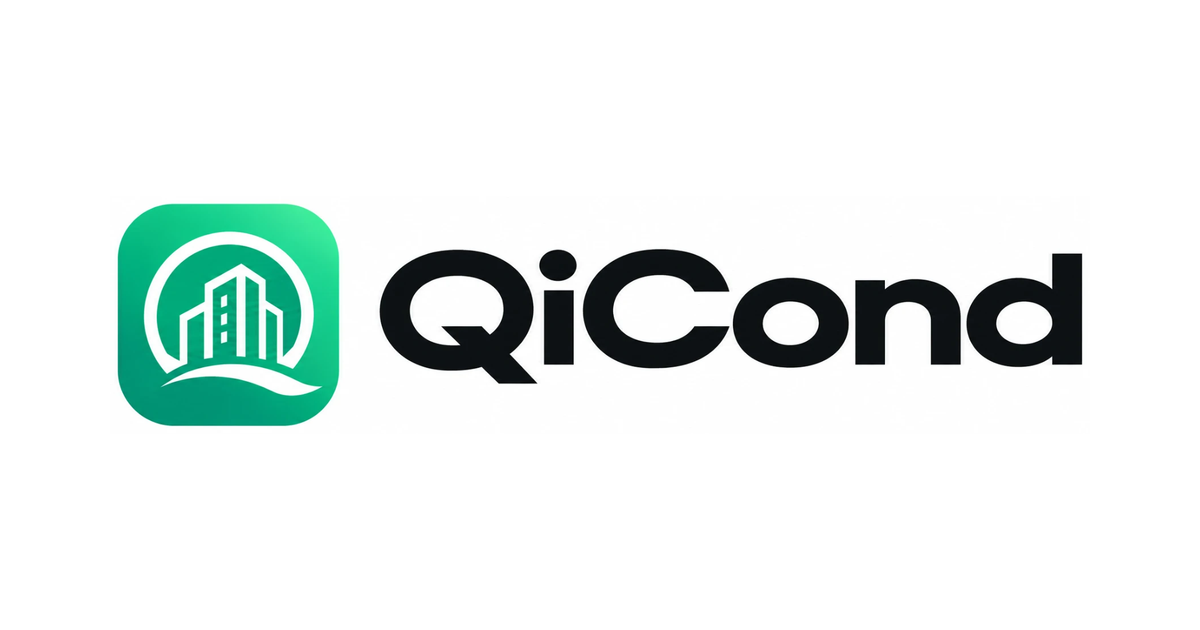
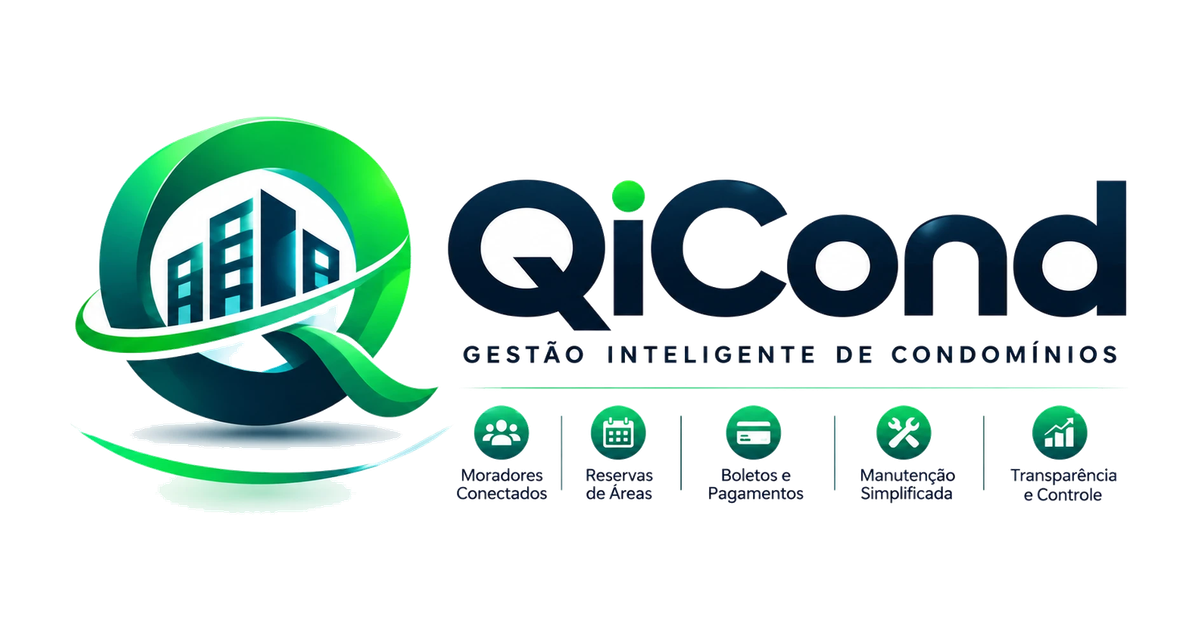
Logótipo composto nos ecrãs de entrada e na imagem de partilha
MEDIDO, NÃO ADIVINHADO

A assinatura "gestão inteligente de condomínios" tem 20px de altura num
ficheiro de 900px. A 280px de largura as maiúsculas ficam com 6,2px e viram
uma mancha; a 400px ficam com 8,9px e lêem-se. Daí o tecto de 400px, e a
troca pelo símbolo com o nome ao lado abaixo de `sm:`, onde não cabem 400px.

Renderizei o ecrã de entrada em três larguras e olhei: aos 1360 e aos 760 a
assinatura lê-se; aos 380 entra a versão pequena.

ONDE ENTRA

Login, cadastro, recuperar senha e nova senha — do lado do formulário, que é
onde o fundo é claro e o azul-escuro do nome se lê. A coluna passou de 384
para 448px para o logótipo caber sem encolher.

A imagem de partilha passa a ser a versão completa, com os cinco pilares. É o
único sítio com 1200px de largura a sério, e é onde a informação extra
trabalha: quem vê o cartão no WhatsApp não sabe o que o sistema é.

ONDE NÃO ENTRA, E PORQUÊ

Na barra lateral e no cabeçalho da aplicação fica o símbolo quadrado. A 36px
não se lê nada da assinatura, e um logótipo que não se lê é ruído.

Nos documentos impressos — carta de cobrança, nada consta, balancete — não
entra nenhum. Pensei o contrário e estava errado: esses papéis são do
condomínio e vão para o tabelião, para o condómino, para o tribunal. O
cabeçalho é do condomínio, não de quem lhe vende o software.

No convite por link fica o símbolo: é uma barra de 64px de altura.

Claude-Session: https://claude.ai/code/session_01HACCTTPs2fcoa33L5AQWCN

Changed region(s): [[0.0617, 0.181, 0.9558, 0.8143]]

diff --git a/src/components/site/Logo.tsx b/src/components/site/Logo.tsx
@@ -1,5 +1,6 @@
 import { Link } from "@tanstack/react-router";
 import logoMark from "@/assets/qicond-mark.png";
+import logoCompleto from "@/assets/qicond-lockup.png";
 
 export function Logo({
   size = "md",
@@ -26,6 +27,39 @@ export function Logo({
         className={`font-display font-extrabold tracking-tight ${text} ${inverse ? "text-white" : "text-foreground"}`}
       >
         QiCond
+      </span>
+    </Link>
+  );
+}
+
+/**
+ * O logótipo composto: emblema, nome e assinatura.
+ *
+ * ONDE ENTRA, E PORQUÊ SÓ AQUI
+ *
+ * A assinatura tem 20px de altura num ficheiro de 900px. Medido e não
+ * adivinhado: a 280px de largura as maiúsculas ficam com 6,2px e viram uma
+ * mancha; a 400px ficam com 8,9px e lêem-se. Daí o tecto de 400px e a troca
+ * pelo símbolo com o nome ao lado abaixo de `sm:`, onde não cabem 400px.
+ *
+ * É também por isso que não está na barra lateral da aplicação: a 36px não se
+ * lê nada dela, e um logótipo que não se lê é ruído, não é marca.
+ */
+export function LogoCompleto({ className = "" }: { className?: string }) {
+  return (
+    <Link to="/" className={`inline-block ${className}`} aria-label="QiCond">
+      <img
+        src={logoCompleto}
+        alt="QiCond — gestão inteligente de condomínios"
+        width={900}
+        height={340}
+        className="hidden sm:block w-full max-w-[400px]"
+      />
+      <span className="sm:hidden flex items-center gap-2.5">
+        <img src={logoMark} alt="" width={36} height={36} className="h-9 w-9 object-contain" />
+        <span className="font-display font-extrabold tracking-tight text-xl text-foreground">
+          QiCond
+        </span>
       </span>
     </Link>
   );

diff --git a/src/routes/auth.cadastro.tsx b/src/routes/auth.cadastro.tsx
@@ -6,7 +6,7 @@ import { entrarComOAuth } from "@/integrations/supabase/oauth";
 import { useAuth } from "@/auth/AuthProvider";
 import { cadastroSchema } from "@/auth/validators";
 import { caminhoInternoSeguro, destinoAposLogin, validarNext } from "@/auth/proximo-destino";
-import { Logo } from "@/components/site/Logo";
+import { Logo, LogoCompleto } from "@/components/site/Logo";
 import { Loader2 } from "lucide-react";
 
 export const Route = createFileRoute("/auth/cadastro")({
@@ -82,9 +82,9 @@ function CadastroPage() {
       </div>
 
       <div className="flex items-center justify-center p-6 sm:p-12 overflow-y-auto">
-        <div className="w-full max-w-sm">
-          <div className="lg:hidden mb-8">
-            <Logo />
+        <div className="w-full max-w-md">
+          <div className="mb-8">
+            <LogoCompleto />
           </div>
           <h1 className="font-display text-3xl font-extrabold">Criar conta de síndico</h1>
           <p className="mt-2 text-sm text-muted-foreground">

diff --git a/src/routes/auth.login.tsx b/src/routes/auth.login.tsx
@@ -6,7 +6,7 @@ import { entrarComOAuth } from "@/integrations/supabase/oauth";
 import { useAuth } from "@/auth/AuthProvider";
 import { loginSchema } from "@/auth/validators";
 import { caminhoInternoSeguro, destinoAposLogin, validarNext } from "@/auth/proximo-destino";
-import { Logo } from "@/components/site/Logo";
+import { Logo, LogoCompleto } from "@/components/site/Logo";
 import { Loader2 } from "lucide-react";
 
 export const Route = createFileRoute("/auth/login")({
@@ -81,9 +81,9 @@ function LoginPage() {
       </div>
 
       <div className="flex items-center justify-center p-6 sm:p-12">
-        <div className="w-full max-w-sm">
-          <div className="lg:hidden mb-8">
-            <Logo />
+        <div className="w-full max-w-md">
+          <div className="mb-8">
+            <LogoCompleto />
           </div>
           <h1 className="font-display text-3xl font-extrabold">Entrar</h1>
           <p className="mt-2 text-sm text-muted-foreground">

diff --git a/src/routes/auth.redefinir-senha.tsx b/src/routes/auth.redefinir-senha.tsx
@@ -3,7 +3,7 @@ import { useEffect, useState } from "react";
 import { toast } from "sonner";
 import { supabase } from "@/integrations/supabase/client";
 import { senhaSchema } from "@/auth/validators";
-import { Logo } from "@/components/site/Logo";
+import { LogoCompleto } from "@/components/site/Logo";
 import { Loader2 } from "lucide-react";
 
 export const Route = createFileRoute("/auth/redefinir-senha")({
@@ -48,9 +48,9 @@ function RedefinirPage() {
 
   return (
     <div className="min-h-screen flex items-center justify-center bg-background p-6">
-      <div className="w-full max-w-sm">
+      <div className="w-full max-w-md">
         <div className="mb-8">
-          <Logo />
+          <LogoCompleto />
         </div>
         <h1 className="font-display text-3xl font-extrabold">Nova senha</h1>
         {!ready ? (

diff --git a/src/routes/auth.esqueci-senha.tsx b/src/routes/auth.esqueci-senha.tsx
@@ -3,7 +3,7 @@ import { useState } from "react";
 import { toast } from "sonner";
 import { supabase } from "@/integrations/supabase/client";
 import { emailSchema } from "@/auth/validators";
-import { Logo } from "@/components/site/Logo";
+import { LogoCompleto } from "@/components/site/Logo";
 import { Loader2 } from "lucide-react";
 
 export const Route = createFileRoute("/auth/esqueci-senha")({
@@ -37,9 +37,9 @@ function EsqueciPage() {
 
   return (
     <div className="min-h-screen flex items-center justify-center bg-background p-6">
-      <div className="w-full max-w-sm">
+      <div className="w-full max-w-md">
         <div className="mb-8">
-          <Logo />
+          <LogoCompleto />
         </div>
         <h1 className="font-display text-3xl font-extrabold">Recuperar senha</h1>
         {sent ? (
